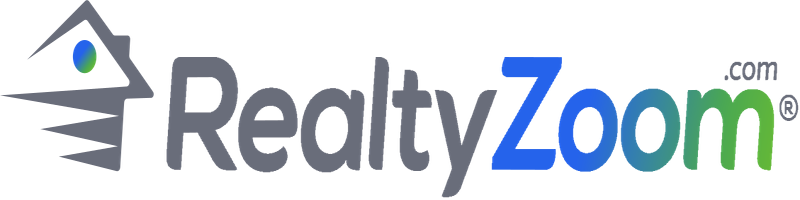
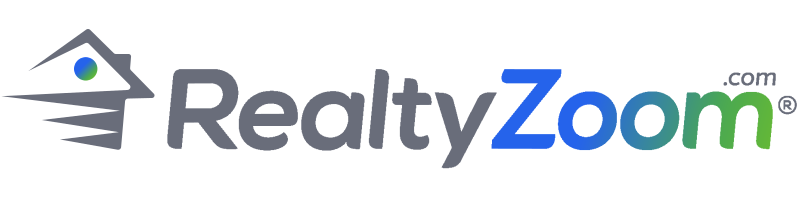
Fix wordmark, star contrast, tab indicator, keyboard-covered button, Listings scoping
- brand-wide.png: corrected (paired with the web repo's un-squish fix)
- deal/[id].tsx: favorite star had zero styling (invisible outline glyph on
  navy) — add a translucent circular chip + explicit color
- (marketplace)/_layout.tsx, UnderwritingTabBar.tsx: selected tab was
  color-only; add a background pill behind the icon in both trays
- offer/[id].tsx: Submit button was inline ScrollView content with only
  32px bottom padding and a no-op Android KeyboardAvoidingView behavior,
  so the keyboard covered it — moved to a pinned footer sibling and fixed
  Android's behavior
- listings.tsx: /api/underwriting/list scopes by org, not creator, so
  every org-mate's published listing showed up in each other's Listings
  tab — filter client-side by created_by; left the shared endpoint alone
  since it also backs the (intentionally org-wide) Reports tab

diff --git a/src/app/(marketplace)/_layout.tsx b/src/app/(marketplace)/_layout.tsx
@@ -1,14 +1,21 @@
 import React from 'react';
+import { StyleSheet, Text, View, type ColorValue } from 'react-native';
 import { Tabs } from 'expo-router';
-import { Text, type ColorValue } from 'react-native';
 import { TopBar } from '@/components/TopBar';
-import { colors } from '@/lib/theme';
+import { colors, radius } from '@/lib/theme';
 
 // Marketplace (buyer side) — mirrors InvestorLift's bottom bar: Search,
 // Favorites, Offers, Messages. Profile lives in the shared TopBar (top-right),
 // not the bottom bar. Swap between Marketplace/Underwriting via the TopBar toggle.
-function TabIcon({ icon, color }: { icon: string; color: ColorValue }) {
-  return <Text style={{ fontSize: 20, color }}>{icon}</Text>;
+//
+// The selected tab gets a background pill behind its icon, not just a color
+// swap (Ryan, 2026-08-05 — color-only was too subtle to read as "you are here").
+function TabIcon({ icon, color, focused }: { icon: string; color: ColorValue; focused: boolean }) {
+  return (
+    <View style={[styles.iconWrap, focused && styles.iconWrapActive]}>
+      <Text style={{ fontSize: 18, color }}>{icon}</Text>
+    </View>
+  );
 }
 
 export default function MarketplaceLayout() {
@@ -21,10 +28,18 @@ export default function MarketplaceLayout() {
         tabBarInactiveTintColor: colors.textFaint,
       }}
     >
-      <Tabs.Screen name="index" options={{ title: 'Search', tabBarIcon: ({ color }) => <TabIcon icon="🔍" color={color} /> }} />
-      <Tabs.Screen name="favorites" options={{ title: 'Favorites', tabBarIcon: ({ color }) => <TabIcon icon="❤" color={color} /> }} />
-      <Tabs.Screen name="offers" options={{ title: 'Offers', tabBarIcon: ({ color }) => <TabIcon icon="💲" color={color} /> }} />
-      <Tabs.Screen name="messages" options={{ title: 'Messages', tabBarIcon: ({ color }) => <TabIcon icon="💬" color={color} /> }} />
+      <Tabs.Screen name="index" options={{ title: 'Search', tabBarIcon: ({ color, focused }) => <TabIcon icon="🔍" color={color} focused={focused} /> }} />
+      <Tabs.Screen name="favorites" options={{ title: 'Favorites', tabBarIcon: ({ color, focused }) => <TabIcon icon="❤" color={color} focused={focused} /> }} />
+      <Tabs.Screen name="offers" options={{ title: 'Offers', tabBarIcon: ({ color, focused }) => <TabIcon icon="💲" color={color} focused={focused} /> }} />
+      <Tabs.Screen name="messages" options={{ title: 'Messages', tabBarIcon: ({ color, focused }) => <TabIcon icon="💬" color={color} focused={focused} /> }} />
     </Tabs>
   );
 }
+
+const styles = StyleSheet.create({
+  iconWrap: {
+    width: 40, height: 26, borderRadius: radius.pill,
+    alignItems: 'center', justifyContent: 'center',
+  },
+  iconWrapActive: { backgroundColor: colors.surfaceAlt },
+});

diff --git a/src/app/offer/[id].tsx b/src/app/offer/[id].tsx
@@ -148,8 +148,12 @@ export default function OfferFlow() {
 
   return (
     <Screen>
-      <KeyboardAvoidingView behavior={Platform.OS === 'ios' ? 'padding' : undefined} style={{ flex: 1 }}>
-        <ScrollView contentContainerStyle={styles.content} keyboardShouldPersistTaps="handled">
+      <KeyboardAvoidingView
+        behavior={Platform.OS === 'ios' ? 'padding' : 'height'}
+        style={{ flex: 1 }}
+        keyboardVerticalOffset={Platform.OS === 'ios' ? 90 : 0}
+      >
+        <ScrollView style={{ flex: 1 }} contentContainerStyle={styles.content} keyboardShouldPersistTaps="handled">
           <Field
             label="Offer amount"
             value={amount}
@@ -201,6 +205,17 @@ export default function OfferFlow() {
             </View>
           </Card>
 
+          <Text style={styles.disclaimer}>
+            Submitting sends your offer and any attached document to the seller. Numbers shown on the deal are
+            RealtyZoom-verified estimates, not a guarantee.
+          </Text>
+        </ScrollView>
+
+        {/* Pinned footer — a plain flex sibling of the ScrollView (not absolute),
+            so KeyboardAvoidingView pushes it up together with the rest of the
+            column and it never ends up hidden behind the keyboard/QuickType bar
+            (Ryan, 2026-08-05). Mirrors deal/[id].tsx's actionBar. */}
+        <View style={styles.footer}>
           <ErrorText>{error}</ErrorText>
           <Button title="Submit offer" onPress={submit} loading={busy} disabled={!canSubmit} variant="accent" />
           {!amountValid ? (
@@ -208,18 +223,18 @@ export default function OfferFlow() {
           ) : hasTerms && !agreed ? (
             <Text style={styles.disabledHint}>Agree to the seller&apos;s terms to submit.</Text>
           ) : null}
-          <Text style={styles.disclaimer}>
-            Submitting sends your offer and any attached document to the seller. Numbers shown on the deal are
-            RealtyZoom-verified estimates, not a guarantee.
-          </Text>
-        </ScrollView>
+        </View>
       </KeyboardAvoidingView>
     </Screen>
   );
 }
 
 const styles = StyleSheet.create({
-  content: { padding: space.lg, paddingBottom: space.xxl },
+  content: { padding: space.lg, paddingBottom: space.xl },
+  footer: {
+    padding: space.lg, paddingTop: space.sm,
+    backgroundColor: colors.bg, borderTopWidth: 1, borderTopColor: colors.border,
+  },
   label: { color: colors.textDim, fontSize: font.small, marginBottom: space.xs, fontWeight: '600' },
   hint: { color: colors.lime, fontSize: font.small, marginTop: -space.sm, marginBottom: space.md, fontWeight: '700' },
   termLine: { color: colors.text, fontSize: font.small, lineHeight: 20 },

diff --git a/src/app/messages/[id].tsx b/src/app/messages/[id].tsx
@@ -5,7 +5,7 @@ import {
 import { Stack, useLocalSearchParams } from 'expo-router';
 import { Screen, Loading, EmptyState } from '@/components/ui';
 import { getThread, postThreadMessage, inquire, reportContent, blockCounterparty } from '@/lib/api';
-import { getProfile } from '@/lib/api';
+import { getProfile, getDeal } from '@/lib/api';
 import type { ThreadMessage } from '@/lib/types';
 import { colors, font, radius, space } from '@/lib/theme';
 import { fmtDate } from '@/lib/format';
@@ -14,6 +14,7 @@ export default function Messages() {
   const { id } = useLocalSearchParams<{ id: string }>();
   const [messages, setMessages] = useState<ThreadMessage[] | null>(null);
   const [interestId, setInterestId] = useState<string | null>(null);
+  const [address, setAddress] = useState<string | null>(null);
   const [draft, setDraft] = useState('');
   const [sending, setSending] = useState(false);
   const [blocked, setBlocked] = useState(false);
@@ -31,6 +32,16 @@ export default function Messages() {
   }, [id]);
 
   useEffect(() => { load(); }, [load]);
+
+  // The thread itself doesn't carry listing details (it's keyed off buyer +
+  // listing, not the other way around) — a lightweight one-time fetch of the
+  // deal, same call offer/[id].tsx already makes, is enough for the banner.
+  useEffect(() => {
+    if (!id) return;
+    let cancelled = false;
+    getDeal(String(id)).then((res) => { if (!cancelled) setAddress(res?.deal.address ?? null); }).catch(() => {});
+    return () => { cancelled = true; };
+  }, [id]);
 
   const send = async () => {
     const text = draft.trim();
@@ -107,6 +118,11 @@ export default function Messages() {
           <Pressable onPress={blockSeller} hitSlop={12}><Text style={styles.headerAction}>Block</Text></Pressable>
         ),
       }} />
+      {address ? (
+        <View style={styles.addressBar}>
+          <Text style={styles.addressText} numberOfLines={1}>{address}</Text>
+        </View>
+      ) : null}
       <KeyboardAvoidingView
         behavior={Platform.OS === 'ios' ? 'padding' : undefined}
         keyboardVerticalOffset={90}
@@ -157,6 +173,11 @@ export default function Messages() {
 }
 
 const styles = StyleSheet.create({
+  addressBar: {
+    paddingHorizontal: space.lg, paddingVertical: space.sm,
+    backgroundColor: colors.surface, borderBottomWidth: 1, borderBottomColor: colors.border,
+  },
+  addressText: { color: colors.textDim, fontSize: font.small, fontWeight: '600', textAlign: 'center' },
   list: { padding: space.lg, flexGrow: 1 },
   bubble: { maxWidth: '82%', borderRadius: radius.lg, padding: space.md, marginBottom: space.sm },
   mine: { alignSelf: 'flex-end', backgroundColor: colors.lime },

diff --git a/src/app/(underwriting)/listings.tsx b/src/app/(underwriting)/listings.tsx
@@ -3,15 +3,18 @@ import { FlatList, Pressable, RefreshControl, StyleSheet, Text, View } from 'rea
 import { useRouter, useFocusEffect } from 'expo-router';
 import { Button, EmptyState, Loading, VerifiedBadge } from '@/components/ui';
 import { listUnderwritings } from '@/lib/api';
+import { useAuth } from '@/lib/auth';
 import type { UnderwritingListItem } from '@/lib/types';
 import { fmtUsdShort } from '@/lib/format';
 import { colors, radius, space, font } from '@/lib/theme';
 
-// Listings — the deals you've published to the RealtyZoom Marketplace (a filtered
-// view of your underwritings where buyer sharing is enabled). Tap to open the
-// report + re-share the buyer link.
+// Listings — the deals YOU'VE published to the RealtyZoom Marketplace (a filtered
+// view of your own underwritings where buyer sharing is enabled — /api/underwriting/list
+// scopes by org, not creator, so the creator filter happens here; "My Deals"/Reports
+// intentionally stays org-wide). Tap to open the report + re-share the buyer link.
 export default function Listings() {
   const router = useRouter();
+  const { session } = useAuth();
   const [items, setItems] = useState<UnderwritingListItem[] | null>(null);
   const [refreshing, setRefreshing] = useState(false);
 
@@ -19,14 +22,15 @@ export default function Listings() {
     if (isRefresh) setRefreshing(true);
     try {
       const res = await listUnderwritings();
-      const posted = (Array.isArray(res) ? res : []).filter((u) => u.buyer_share_enabled);
+      const uid = session?.user?.id;
+      const posted = (Array.isArray(res) ? res : []).filter((u) => u.buyer_share_enabled && u.created_by === uid);
       setItems(posted);
     } catch {
       setItems((s) => s ?? []);
     } finally {
       setRefreshing(false);
     }
-  }, []);
+  }, [session?.user?.id]);
 
   useFocusEffect(useCallback(() => { load(); }, [load]));
 

diff --git a/src/app/deal/[id].tsx b/src/app/deal/[id].tsx
@@ -119,8 +119,8 @@ export default function DealDetail() {
         options={{
           title: deal.city ?? 'Deal',
           headerRight: () => (
-            <Pressable onPress={toggleSave} disabled={savingBusy} hitSlop={12}>
-              <Text style={{ fontSize: 22 }}>{saved ? '⭐' : '☆'}</Text>
+            <Pressable onPress={toggleSave} disabled={savingBusy} hitSlop={12} style={styles.saveButton}>
+              <Text style={[styles.saveIcon, saved && styles.saveIconActive]}>{saved ? '⭐' : '☆'}</Text>
             </Pressable>
           ),
         }}
@@ -423,6 +423,20 @@ const styles = StyleSheet.create({
   center: { alignItems: 'center', justifyContent: 'center' },
   gallery: { height: 240 },
   galleryImg: { width, height: 240, backgroundColor: colors.surfaceAlt },
+
+  // A bare ☆/⭐ Text glyph had zero contrast against the header's navy
+  // background (Ryan, 2026-08-05) — ☆ renders as a thin dark text-presentation
+  // outline with no color set. A translucent circular chip + explicit bright
+  // color on the glyph makes it read as a tappable control at a glance; ⭐'s
+  // own built-in emoji color already shows up fine once saved.
+  saveButton: {
+    width: 36, height: 36, borderRadius: 18,
+    alignItems: 'center', justifyContent: 'center',
+    backgroundColor: 'rgba(242,247,252,0.14)',
+    borderWidth: 1, borderColor: 'rgba(242,247,252,0.4)',
+  },
+  saveIcon: { fontSize: 20, color: colors.white },
+  saveIconActive: { color: colors.warn },
 
   headline: { color: colors.lime, fontSize: font.body, fontWeight: '700', marginBottom: space.sm },
   chipRow: { flexDirection: 'row', flexWrap: 'wrap', gap: space.sm, marginBottom: space.sm },

diff --git a/src/components/UnderwritingTabBar.tsx b/src/components/UnderwritingTabBar.tsx
@@ -1,7 +1,7 @@
 import React from 'react';
 import { Pressable, StyleSheet, Text, View, type ColorValue } from 'react-native';
 import { useSafeAreaInsets } from 'react-native-safe-area-context';
-import { colors, font, space } from '@/lib/theme';
+import { colors, font, radius, space } from '@/lib/theme';
 
 // Minimal shape of the tab-bar props we use (from @react-navigation/bottom-tabs,
 // a transitive dep of expo-router — typed locally so we don't depend on it directly).
@@ -56,7 +56,9 @@ export function UnderwritingTabBar({ state, descriptors, navigation }: TabBarPro
               accessibilityState={focused ? { selected: true } : {}}
               accessibilityLabel={typeof label === 'string' ? label : route.name}
             >
-              {options.tabBarIcon?.({ focused, color, size: 20 })}
+              <View style={[styles.iconWrap, focused && styles.iconWrapActive]}>
+                {options.tabBarIcon?.({ focused, color, size: 20 })}
+              </View>
               <Text style={[styles.label, { color }]} numberOfLines={1}>
                 {label as string}
               </Text>
@@ -84,6 +86,11 @@ const styles = StyleSheet.create({
     paddingHorizontal: space.xs,
   },
   tab: { flex: 1, alignItems: 'center', justifyContent: 'center', gap: 2, paddingVertical: 2 },
+  iconWrap: {
+    width: 40, height: 26, borderRadius: radius.pill,
+    alignItems: 'center', justifyContent: 'center',
+  },
+  iconWrapActive: { backgroundColor: colors.surfaceAlt },
   label: { fontSize: font.tiny, fontWeight: '700' },
   chevron: { color: colors.textFaint, fontSize: 20, fontWeight: '400', paddingHorizontal: 1, marginBottom: 12 },
 });

diff --git a/src/lib/types.ts b/src/lib/types.ts
@@ -276,6 +276,7 @@ export interface UnderwritingListItem {
   final_novation_mao_cents: number | null;
   status: UnderwritingStatus;
   created_at: string;
+  created_by?: string;
   created_by_name?: string;
   access_token: string | null;        // → report WebView: /underwriting/<access_token>
   buyer_share_token: string | null;
